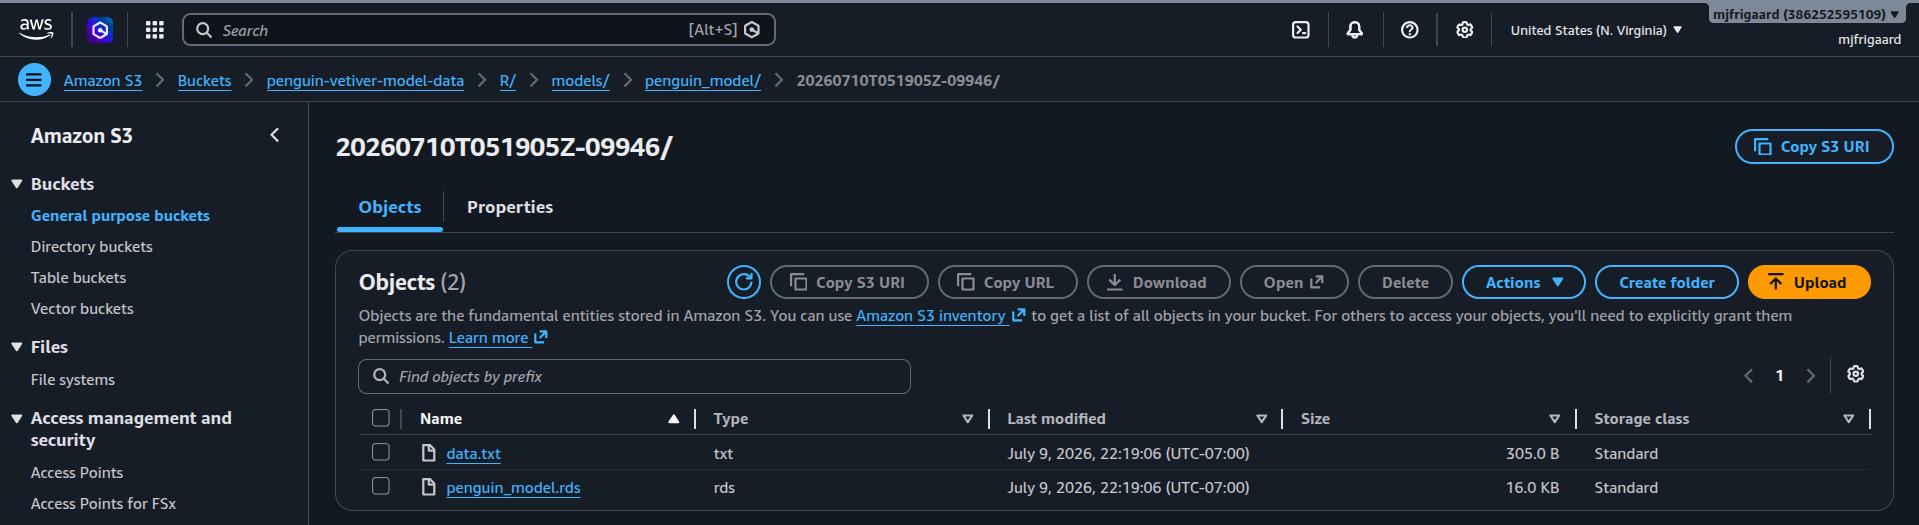
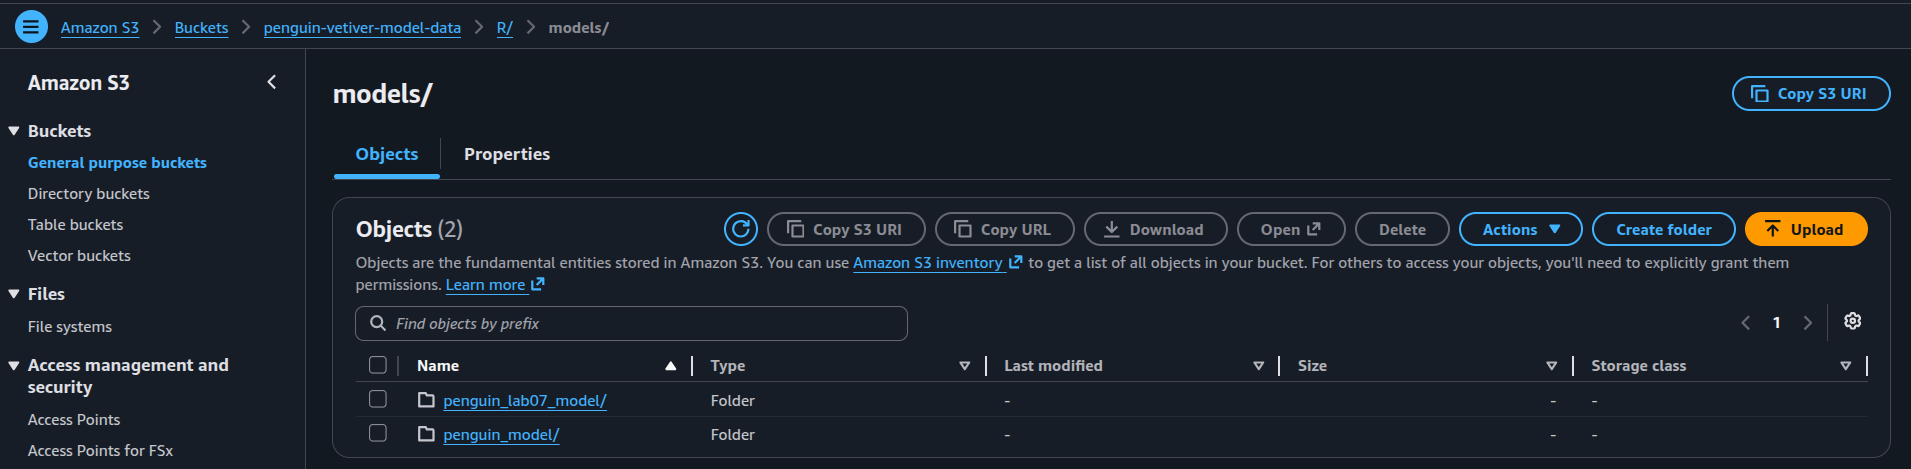
lab 7 push

diff --git a/_book/pull-s3.html b/_book/pull-s3.html
@@ -6,7 +6,7 @@
 
 <meta name="viewport" content="width=device-width, initial-scale=1.0, user-scalable=yes">
 
-<meta name="dcterms.date" content="2026-07-09">
+<meta name="dcterms.date" content="2026-07-10">
 <meta name="description" content="DevOps for Data Science: Lab Solutions">
 
 <title>Pull API model from S3 – DO4DS: Lab Solutions</title>
@@ -493,9 +493,8 @@ pre > code.sourceCode > span > a:first-child::before { text-decoration: underlin
     <h2 id="toc-title">Contents</h2>
    
   <ul>
-  <li><a href="#create-a-separate-iam-user-for-github-actions" id="toc-create-a-separate-iam-user-for-github-actions" class="nav-link active" data-scroll-target="#create-a-separate-iam-user-for-github-actions">Create a separate IAM user for GitHub Actions</a></li>
-  <li><a href="#add-credentials-to-github" id="toc-add-credentials-to-github" class="nav-link" data-scroll-target="#add-credentials-to-github">Add credentials to GitHub</a></li>
-  <li><a href="#example-github-actions-step-using-these-secrets" id="toc-example-github-actions-step-using-these-secrets" class="nav-link" data-scroll-target="#example-github-actions-step-using-these-secrets">Example GitHub Actions step using these secrets</a></li>
+  <li><a href="#step-3-pull-the-api-model-from-s3" id="toc-step-3-pull-the-api-model-from-s3" class="nav-link active" data-scroll-target="#step-3-pull-the-api-model-from-s3">Step 3: Pull the API model from S3</a></li>
+  <li><a href="#step-4-give-github-actions-the-s3-credentials" id="toc-step-4-give-github-actions-the-s3-credentials" class="nav-link" data-scroll-target="#step-4-give-github-actions-the-s3-credentials">Step 4: Give GitHub Actions the S3 credentials</a></li>
   </ul>
 </nav>
     </div>
@@ -515,7 +514,7 @@ pre > code.sourceCode > span > a:first-child::before { text-decoration: underlin
     <div>
     <div class="quarto-title-meta-heading">Published</div>
     <div class="quarto-title-meta-contents">
-      <p class="date">2026-07-09</p>
+      <p class="date">2026-07-10</p>
     </div>
   </div>
   
@@ -545,54 +544,24 @@ pre > code.sourceCode > span > a:first-child::before { text-decoration: underlin
 </div>
 </div>
 </div>
-<section id="create-a-separate-iam-user-for-github-actions" class="level2">
-<h2 class="anchored" data-anchor-id="create-a-separate-iam-user-for-github-actions">Create a separate IAM user for GitHub Actions</h2>
-<p>Do not reuse your personal credentials. Create a dedicated user with only S3 access.</p>
-<p>IAM &gt; User groups &gt; Create group: <code>github-actions-s3</code></p>
-<p>Attach a scoped custom policy instead of full access. Example policy JSON, limited to one bucket:</p>
-<div class="code-copy-outer-scaffold"><div class="sourceCode" id="cb1"><pre class="sourceCode json code-with-copy"><code class="sourceCode json"><span id="cb1-1"><a href="#cb1-1" aria-hidden="true" tabindex="-1"></a><span class="fu">{</span></span>
-<span id="cb1-2"><a href="#cb1-2" aria-hidden="true" tabindex="-1"></a>  <span class="dt">"Version"</span><span class="fu">:</span> <span class="st">"2012-10-17"</span><span class="fu">,</span></span>
-<span id="cb1-3"><a href="#cb1-3" aria-hidden="true" tabindex="-1"></a>  <span class="dt">"Statement"</span><span class="fu">:</span> <span class="ot">[</span></span>
-<span id="cb1-4"><a href="#cb1-4" aria-hidden="true" tabindex="-1"></a>    <span class="fu">{</span></span>
-<span id="cb1-5"><a href="#cb1-5" aria-hidden="true" tabindex="-1"></a>      <span class="dt">"Effect"</span><span class="fu">:</span> <span class="st">"Allow"</span><span class="fu">,</span></span>
-<span id="cb1-6"><a href="#cb1-6" aria-hidden="true" tabindex="-1"></a>      <span class="dt">"Action"</span><span class="fu">:</span> <span class="ot">[</span></span>
-<span id="cb1-7"><a href="#cb1-7" aria-hidden="true" tabindex="-1"></a>        <span class="st">"s3:GetObject"</span><span class="ot">,</span></span>
-<span id="cb1-8"><a href="#cb1-8" aria-hidden="true" tabindex="-1"></a>        <span class="st">"s3:PutObject"</span><span class="ot">,</span></span>
-<span id="cb1-9"><a href="#cb1-9" aria-hidden="true" tabindex="-1"></a>        <span class="st">"s3:ListBucket"</span></span>
-<span id="cb1-10"><a href="#cb1-10" aria-hidden="true" tabindex="-1"></a>      <span class="ot">]</span><span class="fu">,</span></span>
-<span id="cb1-11"><a href="#cb1-11" aria-hidden="true" tabindex="-1"></a>      <span class="dt">"Resource"</span><span class="fu">:</span> <span class="ot">[</span></span>
-<span id="cb1-12"><a href="#cb1-12" aria-hidden="true" tabindex="-1"></a>        <span class="st">"arn:aws:s3:::your-vetiver-bucket-name"</span><span class="ot">,</span></span>
-<span id="cb1-13"><a href="#cb1-13" aria-hidden="true" tabindex="-1"></a>        <span class="st">"arn:aws:s3:::your-vetiver-bucket-name/*"</span></span>
-<span id="cb1-14"><a href="#cb1-14" aria-hidden="true" tabindex="-1"></a>      <span class="ot">]</span></span>
-<span id="cb1-15"><a href="#cb1-15" aria-hidden="true" tabindex="-1"></a>    <span class="fu">}</span></span>
-<span id="cb1-16"><a href="#cb1-16" aria-hidden="true" tabindex="-1"></a>  <span class="ot">]</span></span>
-<span id="cb1-17"><a href="#cb1-17" aria-hidden="true" tabindex="-1"></a><span class="fu">}</span></span></code></pre></div><button title="Copy to Clipboard" class="code-copy-button"><i class="bi"></i></button></div>
-<p>IAM &gt; Policies &gt; Create policy &gt; JSON tab &gt; paste above &gt; name it <code>github-actions-s3-policy</code>.</p>
-<p>Attach this policy to the <code>github-actions-s3</code> group.</p>
-<p>Create user: <code>github-actions-bot</code> &gt; add to <code>github-actions-s3</code> group &gt; no console access needed.</p>
-<p>Create access key for this user (CLI use case), same as before.</p>
+<section id="step-3-pull-the-api-model-from-s3" class="level2">
+<h2 class="anchored" data-anchor-id="step-3-pull-the-api-model-from-s3">Step 3: Pull the API model from S3</h2>
+<p>You’ll also have to configure the API to load the model from the S3 bucket. If you’re using {<code>vetiver</code>} that’s as easy as changing the board creation line to:</p>
+<div class="code-copy-outer-scaffold"><div class="sourceCode" id="cb1"><pre class="sourceCode python code-with-copy"><code class="sourceCode python"><span id="cb1-1"><a href="#cb1-1" aria-hidden="true" tabindex="-1"></a><span class="im">from</span> pins <span class="im">import</span> board_s3</span>
+<span id="cb1-2"><a href="#cb1-2" aria-hidden="true" tabindex="-1"></a>board <span class="op">=</span> board_s3(<span class="st">"do4ds-lab"</span>, allow_pickle_read<span class="op">=</span><span class="va">True</span>)</span></code></pre></div><button title="Copy to Clipboard" class="code-copy-button"><i class="bi"></i></button></div>
 </section>
-<section id="add-credentials-to-github" class="level2">
-<h2 class="anchored" data-anchor-id="add-credentials-to-github">Add credentials to GitHub</h2>
-<p>Repo &gt; Settings &gt; Secrets and variables &gt; Actions &gt; New repository secret.</p>
-<p>Add:</p>
-<ul>
-<li><code>AWS_ACCESS_KEY_ID</code></li>
-<li><code>AWS_SECRET_ACCESS_KEY</code></li>
-<li><code>AWS_REGION</code></li>
-</ul>
-</section>
-<section id="example-github-actions-step-using-these-secrets" class="level2">
-<h2 class="anchored" data-anchor-id="example-github-actions-step-using-these-secrets">Example GitHub Actions step using these secrets</h2>
-<div class="code-copy-outer-scaffold"><div class="sourceCode" id="cb2"><pre class="sourceCode yaml code-with-copy"><code class="sourceCode yaml"><span id="cb2-1"><a href="#cb2-1" aria-hidden="true" tabindex="-1"></a><span class="kw">-</span><span class="at"> </span><span class="fu">name</span><span class="kw">:</span><span class="at"> Configure AWS credentials</span></span>
-<span id="cb2-2"><a href="#cb2-2" aria-hidden="true" tabindex="-1"></a><span class="at">  </span><span class="fu">uses</span><span class="kw">:</span><span class="at"> aws-actions/configure-aws-credentials@v4</span></span>
-<span id="cb2-3"><a href="#cb2-3" aria-hidden="true" tabindex="-1"></a><span class="at">  </span><span class="fu">with</span><span class="kw">:</span></span>
-<span id="cb2-4"><a href="#cb2-4" aria-hidden="true" tabindex="-1"></a><span class="at">    </span><span class="fu">aws-access-key-id</span><span class="kw">:</span><span class="at"> ${{ secrets.AWS_ACCESS_KEY_ID }}</span></span>
-<span id="cb2-5"><a href="#cb2-5" aria-hidden="true" tabindex="-1"></a><span class="at">    </span><span class="fu">aws-secret-access-key</span><span class="kw">:</span><span class="at"> ${{ secrets.AWS_SECRET_ACCESS_KEY }}</span></span>
-<span id="cb2-6"><a href="#cb2-6" aria-hidden="true" tabindex="-1"></a><span class="at">    </span><span class="fu">aws-region</span><span class="kw">:</span><span class="at"> ${{ secrets.AWS_REGION }}</span></span>
-<span id="cb2-7"><a href="#cb2-7" aria-hidden="true" tabindex="-1"></a></span>
-<span id="cb2-8"><a href="#cb2-8" aria-hidden="true" tabindex="-1"></a><span class="kw">-</span><span class="at"> </span><span class="fu">name</span><span class="kw">:</span><span class="at"> Push to S3</span></span>
-<span id="cb2-9"><a href="#cb2-9" aria-hidden="true" tabindex="-1"></a><span class="at">  </span><span class="fu">run</span><span class="kw">:</span><span class="at"> aws s3 cp ./model.rds s3://your-vetiver-bucket-name/model.rds</span></span></code></pre></div><button title="Copy to Clipboard" class="code-copy-button"><i class="bi"></i></button></div>
+<section id="step-4-give-github-actions-the-s3-credentials" class="level2">
+<h2 class="anchored" data-anchor-id="step-4-give-github-actions-the-s3-credentials">Step 4: Give GitHub Actions the S3 credentials</h2>
+<p>We want our model building to correctly push to S3 even when it’s running in GitHub Actions, but since GitHub doesn’t have our S3 credentials by default, so we’ll need to provide them.</p>
+<p>We will declare the variables we need in the Render and Publish step of the Action.</p>
+<p>Once you’re done, that section of the publish.yml should look something like this:</p>
+<div class="code-copy-outer-scaffold"><div class="sourceCode" id="cb2"><pre class="sourceCode yaml code-with-copy"><code class="sourceCode yaml"><span id="cb2-1"><a href="#cb2-1" aria-hidden="true" tabindex="-1"></a><span class="at">.github/workflows/publish.yml</span></span>
+<span id="cb2-2"><a href="#cb2-2" aria-hidden="true" tabindex="-1"></a><span class="at">  </span><span class="fu">env</span><span class="kw">:</span></span>
+<span id="cb2-3"><a href="#cb2-3" aria-hidden="true" tabindex="-1"></a><span class="at">    </span><span class="fu">GITHUB_TOKEN</span><span class="kw">:</span><span class="at"> ${{ secrets.GITHUB_TOKEN }}</span></span>
+<span id="cb2-4"><a href="#cb2-4" aria-hidden="true" tabindex="-1"></a><span class="at">    </span><span class="fu">AWS_ACCESS_KEY_ID</span><span class="kw">:</span><span class="at"> ${{ secrets.AWS_ACCESS_KEY_ID }}</span></span>
+<span id="cb2-5"><a href="#cb2-5" aria-hidden="true" tabindex="-1"></a><span class="at">    </span><span class="fu">AWS_SECRET_ACCESS_KEY</span><span class="kw">:</span><span class="at"> ${{ secrets.AWS_SECRET_ACCESS_KEY }}</span></span>
+<span id="cb2-6"><a href="#cb2-6" aria-hidden="true" tabindex="-1"></a><span class="at">    </span><span class="fu">AWS_REGION</span><span class="kw">:</span><span class="at"> us-east-1</span></span></code></pre></div><button title="Copy to Clipboard" class="code-copy-button"><i class="bi"></i></button></div>
+<p>Now, unlike the <code>GITHUB_TOKEN</code> secret, which GitHub Actions automatically provides to itself, we’ll have to give these secrets to the GitHub interface.</p>
 
 
 </section>

diff --git a/_book/s3-data.html b/_book/s3-data.html
@@ -6,7 +6,7 @@
 
 <meta name="viewport" content="width=device-width, initial-scale=1.0, user-scalable=yes">
 
-<meta name="dcterms.date" content="2026-07-09">
+<meta name="dcterms.date" content="2026-07-10">
 <meta name="description" content="DevOps for Data Science: Lab Solutions">
 
 <title>Create S3 &amp; Push Data – DO4DS: Lab Solutions</title>
@@ -530,7 +530,7 @@ pre > code.sourceCode > span > a:first-child::before { text-decoration: underlin
     <div>
     <div class="quarto-title-meta-heading">Published</div>
     <div class="quarto-title-meta-contents">
-      <p class="date">2026-07-09</p>
+      <p class="date">2026-07-10</p>
     </div>
   </div>
   
@@ -674,7 +674,9 @@ pre > code.sourceCode > span > a:first-child::before { text-decoration: underlin
 <div class="code-copy-outer-scaffold"><div class="sourceCode" id="cb11"><pre class="sourceCode default code-with-copy"><code class="sourceCode default"><span id="cb11-1"><a href="#cb11-1" aria-hidden="true" tabindex="-1"></a>Model Cards provide a framework for transparent, responsible reporting. </span>
 <span id="cb11-2"><a href="#cb11-2" aria-hidden="true" tabindex="-1"></a> Use the vetiver `.qmd` Quarto template as a place to start, </span>
 <span id="cb11-3"><a href="#cb11-3" aria-hidden="true" tabindex="-1"></a> with vetiver.model_card()</span>
-<span id="cb11-4"><a href="#cb11-4" aria-hidden="true" tabindex="-1"></a>('The hash of pin "penguin_model" has not changed. Your pin will not be stored.',)</span></code></pre></div><button title="Copy to Clipboard" class="code-copy-button"><i class="bi"></i></button></div>
+<span id="cb11-4"><a href="#cb11-4" aria-hidden="true" tabindex="-1"></a>Writing pin:</span>
+<span id="cb11-5"><a href="#cb11-5" aria-hidden="true" tabindex="-1"></a>Name: 'penguin_lab07_model'</span>
+<span id="cb11-6"><a href="#cb11-6" aria-hidden="true" tabindex="-1"></a>Version: 20260710T065219Z-91fdd</span></code></pre></div><button title="Copy to Clipboard" class="code-copy-button"><i class="bi"></i></button></div>
 </section>
 <section id="write-to-s3-bucket-python" class="level3">
 <h3 class="anchored" data-anchor-id="write-to-s3-bucket-python">Write to S3 Bucket (<code>Python</code>)</h3>
@@ -735,12 +737,16 @@ pre > code.sourceCode > span > a:first-child::before { text-decoration: underlin
 <div class="code-copy-outer-scaffold"><div class="sourceCode" id="cb16"><pre class="sourceCode default code-with-copy"><code class="sourceCode default"><span id="cb16-1"><a href="#cb16-1" aria-hidden="true" tabindex="-1"></a>Model Cards provide a framework for transparent, responsible reporting. </span>
 <span id="cb16-2"><a href="#cb16-2" aria-hidden="true" tabindex="-1"></a> Use the vetiver `.qmd` Quarto template as a place to start, </span>
 <span id="cb16-3"><a href="#cb16-3" aria-hidden="true" tabindex="-1"></a> with vetiver.model_card()</span>
-<span id="cb16-4"><a href="#cb16-4" aria-hidden="true" tabindex="-1"></a>('The hash of pin "penguin_model" has not changed. Your pin will not be stored.',)</span></code></pre></div><button title="Copy to Clipboard" class="code-copy-button"><i class="bi"></i></button></div>
+<span id="cb16-4"><a href="#cb16-4" aria-hidden="true" tabindex="-1"></a>Writing pin:</span>
+<span id="cb16-5"><a href="#cb16-5" aria-hidden="true" tabindex="-1"></a>Name: 'penguin_lab07_model'</span>
+<span id="cb16-6"><a href="#cb16-6" aria-hidden="true" tabindex="-1"></a>Version: 20260710T065220Z-91fdd</span></code></pre></div><button title="Copy to Clipboard" class="code-copy-button"><i class="bi"></i></button></div>
 <p>We can confirm it was uploaded with:</p>
 <div class="cell">
 <div class="code-copy-outer-scaffold"><div class="sourceCode cell-code" id="cb17"><pre class="sourceCode python code-with-copy"><code class="sourceCode python"><span id="cb17-1"><a href="#cb17-1" aria-hidden="true" tabindex="-1"></a><span class="bu">print</span>(board.pin_list())</span></code></pre></div><button title="Copy to Clipboard" class="code-copy-button"><i class="bi"></i></button></div>
 </div>
-<div class="code-copy-outer-scaffold"><div class="sourceCode" id="cb18"><pre class="sourceCode default code-with-copy"><code class="sourceCode default"><span id="cb18-1"><a href="#cb18-1" aria-hidden="true" tabindex="-1"></a>['penguin_model']</span></code></pre></div><button title="Copy to Clipboard" class="code-copy-button"><i class="bi"></i></button></div>
+<div class="code-copy-outer-scaffold"><div class="sourceCode" id="cb18"><pre class="sourceCode default code-with-copy"><code class="sourceCode default"><span id="cb18-1"><a href="#cb18-1" aria-hidden="true" tabindex="-1"></a>['penguin_lab07_model', 'penguin_model']</span></code></pre></div><button title="Copy to Clipboard" class="code-copy-button"><i class="bi"></i></button></div>
+<p>We can see the Python model data has been pushed to the S3 bucket in the <strong>AWS Console</strong>:</p>
+<p><img src="img/lab7-aws-python-write-model-s3.png" class="img-fluid" alt="Click to enlarge Python vetiver model in S3 Bucket">{width=‘100%’ fig-align’center’}</p>
 </section>
 <section id="write-to-local-board-r" class="level3">
 <h3 class="anchored" data-anchor-id="write-to-local-board-r">Write to Local Board (<code>R</code>)</h3>
@@ -750,8 +756,8 @@ pre > code.sourceCode > span > a:first-child::before { text-decoration: underlin
 <span id="cb19-2"><a href="#cb19-2" aria-hidden="true" tabindex="-1"></a>vetiver<span class="sc">::</span><span class="fu">vetiver_pin_write</span>(model_board, v)</span></code></pre></div><button title="Copy to Clipboard" class="code-copy-button"><i class="bi"></i></button></div>
 </div>
 <p>We can see the confirmation that the model was written to the local board:</p>
-<div class="code-copy-outer-scaffold"><div class="sourceCode" id="cb20"><pre class="sourceCode default code-with-copy"><code class="sourceCode default"><span id="cb20-1"><a href="#cb20-1" aria-hidden="true" tabindex="-1"></a>#&gt; Replacing version '20260709T135838Z-09946' with '20260709T140004Z-09946'</span>
-<span id="cb20-2"><a href="#cb20-2" aria-hidden="true" tabindex="-1"></a>#&gt; Writing to pin 'penguin_model'</span>
+<div class="code-copy-outer-scaffold"><div class="sourceCode" id="cb20"><pre class="sourceCode default code-with-copy"><code class="sourceCode default"><span id="cb20-1"><a href="#cb20-1" aria-hidden="true" tabindex="-1"></a>#&gt; Creating new version '20260710T152331Z-09946'</span>
+<span id="cb20-2"><a href="#cb20-2" aria-hidden="true" tabindex="-1"></a>#&gt; Writing to pin 'penguin_lab07_model'</span>
 <span id="cb20-3"><a href="#cb20-3" aria-hidden="true" tabindex="-1"></a>#&gt; </span>
 <span id="cb20-4"><a href="#cb20-4" aria-hidden="true" tabindex="-1"></a>#&gt; Create a Model Card for your published model</span>
 <span id="cb20-5"><a href="#cb20-5" aria-hidden="true" tabindex="-1"></a>#&gt; • Model Cards provide a framework for transparent, responsible reporting</span>
@@ -810,13 +816,15 @@ pre > code.sourceCode > span > a:first-child::before { text-decoration: underlin
 <span id="cb24-8"><a href="#cb24-8" aria-hidden="true" tabindex="-1"></a></span>
 <span id="cb24-9"><a href="#cb24-9" aria-hidden="true" tabindex="-1"></a>vetiver<span class="sc">::</span><span class="fu">vetiver_pin_write</span>(s3_board, v)</span></code></pre></div><button title="Copy to Clipboard" class="code-copy-button"><i class="bi"></i></button></div>
 </div>
-<div class="code-copy-outer-scaffold"><div class="sourceCode" id="cb25"><pre class="sourceCode default code-with-copy"><code class="sourceCode default"><span id="cb25-1"><a href="#cb25-1" aria-hidden="true" tabindex="-1"></a>#&gt; Creating new version '20260710T052331Z-09946'</span>
-<span id="cb25-2"><a href="#cb25-2" aria-hidden="true" tabindex="-1"></a>#&gt; Writing to pin 'penguin_model'</span></code></pre></div><button title="Copy to Clipboard" class="code-copy-button"><i class="bi"></i></button></div>
+<div class="code-copy-outer-scaffold"><div class="sourceCode" id="cb25"><pre class="sourceCode default code-with-copy"><code class="sourceCode default"><span id="cb25-1"><a href="#cb25-1" aria-hidden="true" tabindex="-1"></a>#&gt; Creating new version '20260710T152331Z-09946'</span>
+<span id="cb25-2"><a href="#cb25-2" aria-hidden="true" tabindex="-1"></a>#&gt; Writing to pin 'penguin_lab07_model'</span></code></pre></div><button title="Copy to Clipboard" class="code-copy-button"><i class="bi"></i></button></div>
 <p>We can confirm this with <code>pins::pin_list()</code>:</p>
 <div class="cell">
 <div class="code-copy-outer-scaffold"><div class="sourceCode cell-code" id="cb26"><pre class="sourceCode r code-with-copy"><code class="sourceCode r"><span id="cb26-1"><a href="#cb26-1" aria-hidden="true" tabindex="-1"></a>pins<span class="sc">::</span><span class="fu">pin_list</span>(s3_board)</span></code></pre></div><button title="Copy to Clipboard" class="code-copy-button"><i class="bi"></i></button></div>
 </div>
-<div class="code-copy-outer-scaffold"><div class="sourceCode" id="cb27"><pre class="sourceCode default code-with-copy"><code class="sourceCode default"><span id="cb27-1"><a href="#cb27-1" aria-hidden="true" tabindex="-1"></a>#&gt; [1] "penguin_model"</span></code></pre></div><button title="Copy to Clipboard" class="code-copy-button"><i class="bi"></i></button></div>
+<div class="code-copy-outer-scaffold"><div class="sourceCode" id="cb27"><pre class="sourceCode default code-with-copy"><code class="sourceCode default"><span id="cb27-1"><a href="#cb27-1" aria-hidden="true" tabindex="-1"></a>#&gt; [1] "penguin_lab07_model" "penguin_model"</span></code></pre></div><button title="Copy to Clipboard" class="code-copy-button"><i class="bi"></i></button></div>
+<p>We can see this model data has been pushed in the <strong>AWS Console</strong>:</p>
+<p><img src="img/lab7-aws-r-write-model-s3.png" class="img-fluid" alt="Click to enlarge R vetiver model in S3 Bucket">{width=‘100%’ fig-align’center’}</p>
 
 
 </section>

diff --git a/_labs/lab07/py_model.md b/_labs/lab07/py_model.md
@@ -106,11 +106,14 @@ print(f"Coefficients {model.coef_}")
 
 ## Turn into Vetiver Model
 
+We’re going to differentiate the model name here so we can easily
+identify it later.
+
 ``` python
 from vetiver import VetiverModel, VetiverAPI
 from pins import board_temp
 
-v = VetiverModel(model, model_name='penguin_model', prototype_data=X)
+v = VetiverModel(model, model_name='penguin_lab07_model', prototype_data=X)
 ```
 
 ## Write to Local Board
@@ -126,7 +129,9 @@ vetiver_pin_write(board, v)
     Model Cards provide a framework for transparent, responsible reporting. 
      Use the vetiver `.qmd` Quarto template as a place to start, 
      with vetiver.model_card()
-    ('The hash of pin "penguin_model" has not changed. Your pin will not be stored.',)
+    Writing pin:
+    Name: 'penguin_lab07_model'
+    Version: 20260710T065219Z-91fdd
 
 ## Write to S3 Board
 
@@ -167,7 +172,9 @@ vetiver_pin_write(board, v)
     Model Cards provide a framework for transparent, responsible reporting. 
      Use the vetiver `.qmd` Quarto template as a place to start, 
      with vetiver.model_card()
-    ('The hash of pin "penguin_model" has not changed. Your pin will not be stored.',)
+    Writing pin:
+    Name: 'penguin_lab07_model'
+    Version: 20260710T065220Z-91fdd
 
 Confirm the model was written to the S3 board:
 
@@ -175,4 +182,4 @@ Confirm the model was written to the S3 board:
 print(board.pin_list())
 ```
 
-    ['penguin_model']
+    ['penguin_lab07_model', 'penguin_model']

diff --git a/_labs/lab07/r_model.md b/_labs/lab07/r_model.md
@@ -97,10 +97,13 @@ print(coef(model))
 
 ## Turn into Vetiver Model
 
+We’re going to differentiate the model name here so we can easily
+identify it later.
+
 ``` r
 v <- vetiver::vetiver_model(
   model,
-  model_name = "penguin_model",
+  model_name = "penguin_lab07_model",
   description = "Linear model predicting penguin body mass from bill length, species, and sex",
   save_prototype = TRUE  
 )
@@ -131,8 +134,8 @@ model_board <- pins::board_folder("R/models")
 vetiver::vetiver_pin_write(model_board, v)
 ```
 
-    #> Replacing version '20260710T050819Z-09946' with '20260710T052330Z-09946'
-    #> Writing to pin 'penguin_model'
+    #> Creating new version '20260710T152331Z-09946'
+    #> Writing to pin 'penguin_lab07_model'
     #> 
     #> Create a Model Card for your published model
     #> • Model Cards provide a framework for transparent, responsible reporting
@@ -192,8 +195,8 @@ s3_board <- pins::board_s3(
 vetiver::vetiver_pin_write(s3_board, v)
 ```
 
-    #> Creating new version '20260710T052331Z-09946'
-    #> Writing to pin 'penguin_model'
+    #> Creating new version '20260710T152331Z-09946'
+    #> Writing to pin 'penguin_lab07_model'
 
 We can confirm this with the following commands:
 
@@ -201,4 +204,4 @@ We can confirm this with the following commands:
 pins::pin_list(s3_board)
 ```
 
-    #> [1] "penguin_model"
+    #> [1] "penguin_lab07_model" "penguin_model"
